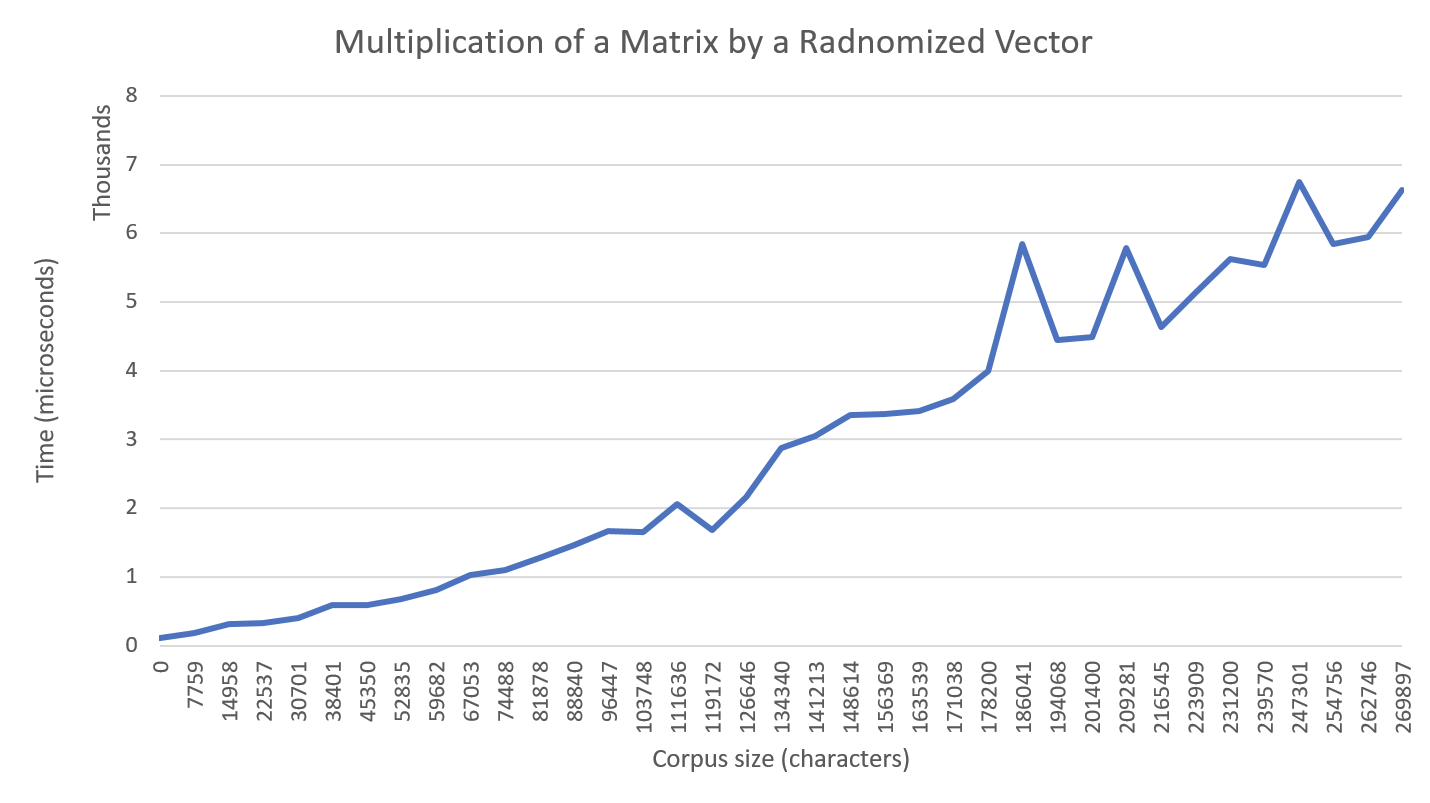
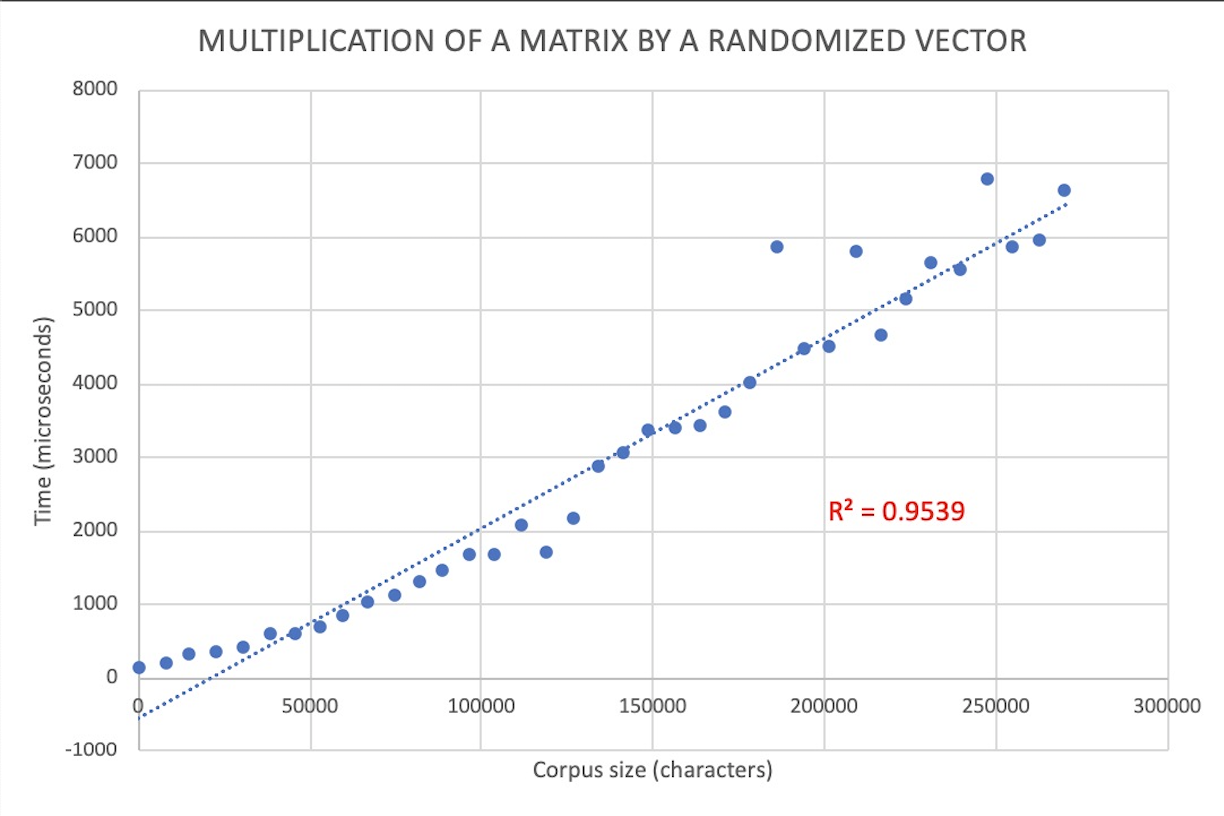
changed graph, added r2

diff --git a/index.html b/index.html
@@ -721,7 +721,7 @@
       <img src="images/imgruntime.png"  id="stbmm-article-imgruntime" />
     </div>
     <p class="stbmm-article-content">As you can see, the graph above is
-    roughly linear with a few outliers, which confirms that the multiplication
+    roughly linear (R$$^2$$=0.9539) with a few outliers, which confirms that the multiplication
     is indeed carried out in linear time. Feel free to examine the Python
     scripts used for these experiments
     <a href="https://github.com/varun-tandon/FastMatrixMultiplicationSuffixTrees">here</a>.</p>
